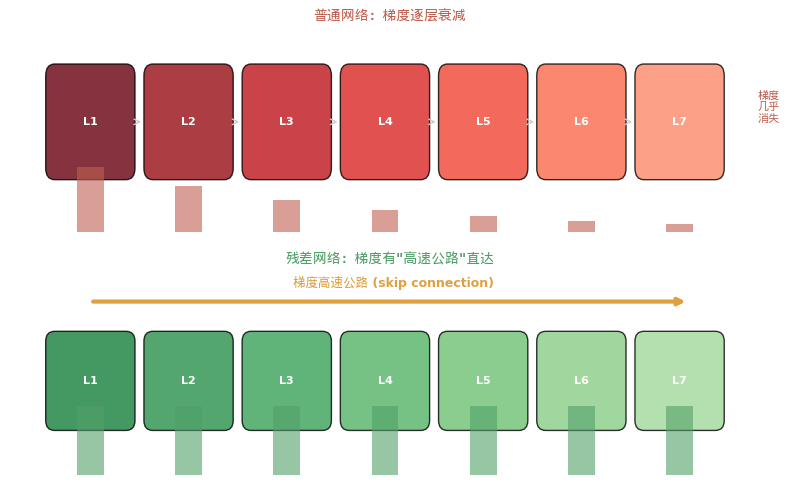
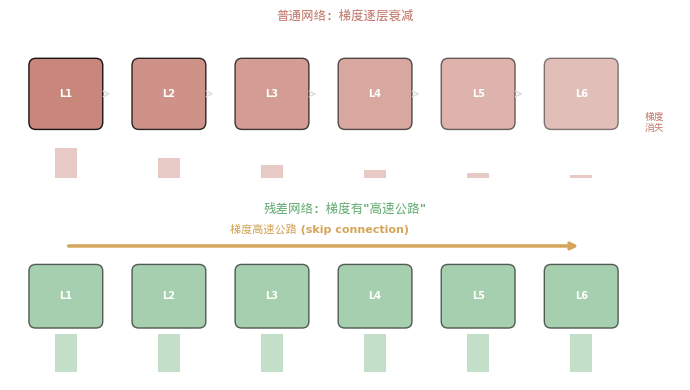
Update residual connection post: refined colors, smaller images, add residual flow animation

diff --git a/content/posts/residual-connection/gen_figures_v2.py b/content/posts/residual-connection/gen_figures_v2.py
@@ -1,0 +1,283 @@
+"""残差连接配图 v2 — 色彩优化 + 残差流动画"""
+import matplotlib
+matplotlib.use('Agg')
+import matplotlib.pyplot as plt
+import matplotlib.patches as mpatches
+import matplotlib.animation as animation
+import numpy as np
+import os
+
+plt.rcParams['font.family'] = ['DejaVu Sans', 'WenQuanYi Micro Hei', 'sans-serif']
+plt.rcParams['axes.unicode_minus'] = False
+OUT = os.path.expanduser('~/ai-blog/content/posts/residual-connection')
+DPI = 100
+SLOW = 250  # 慢速动画
+
+# 柔和色板
+C_BLUE = '#6A9EC7'
+C_RED = '#C47A6E'
+C_GREEN = '#6AAF78'
+C_PURPLE = '#9A7DBF'
+C_ORANGE = '#D4A55A'
+C_GRAY = '#A0A0A0'
+
+# ============================================================
+# 图1: 梯度高速公路（缩小，色彩柔和）
+# ============================================================
+def gen_01():
+    fig, axes = plt.subplots(2, 1, figsize=(7, 4))
+
+    # 上：普通网络
+    ax = axes[0]
+    ax.set_xlim(-0.3, 7.5); ax.set_ylim(-0.4, 1.3)
+    ax.set_title('普通网络：梯度逐层衰减', fontsize=9, fontweight='bold', color=C_RED)
+    ax.axis('off')
+    layers = 6; grad = 1.0
+    for i in range(layers):
+        x = i * 1.2
+        alpha = 0.4 + 0.5 * (1 - i/layers)
+        rect = mpatches.FancyBboxPatch((x, 0.3), 0.7, 0.6,
+            boxstyle="round,pad=0.08", facecolor=C_RED, alpha=alpha)
+        ax.add_patch(rect)
+        ax.text(x+0.35, 0.6, f'L{i+1}', ha='center', va='center', fontsize=7, color='white', fontweight='bold')
+        grad *= 0.65
+        ax.bar(x+0.35, grad*0.5, 0.25, bottom=-0.3, color=C_RED, alpha=0.4)
+        if i < layers-1:
+            ax.annotate('', xy=(x+0.9, 0.6), xytext=(x+0.8, 0.6),
+                arrowprops=dict(arrowstyle='->', color='#ddd', lw=1))
+    ax.text(7.2, 0.2, '梯度\n消失', fontsize=7, color=C_RED, ha='center')
+
+    # 下：残差网络
+    ax = axes[1]
+    ax.set_xlim(-0.3, 7.5); ax.set_ylim(-0.4, 1.5)
+    ax.set_title('残差网络：梯度有"高速公路"', fontsize=9, fontweight='bold', color=C_GREEN)
+    ax.axis('off')
+    for i in range(layers):
+        x = i * 1.2
+        rect = mpatches.FancyBboxPatch((x, 0.3), 0.7, 0.6,
+            boxstyle="round,pad=0.08", facecolor=C_GREEN, alpha=0.6)
+        ax.add_patch(rect)
+        ax.text(x+0.35, 0.6, f'L{i+1}', ha='center', va='center', fontsize=7, color='white', fontweight='bold')
+        ax.bar(x+0.35, 0.45, 0.25, bottom=-0.3, color=C_GREEN, alpha=0.4)
+    ax.annotate('', xy=(0.35, 1.2), xytext=(6.35, 1.2),
+        arrowprops=dict(arrowstyle='<-', color=C_ORANGE, lw=2.5))
+    ax.text(3.3, 1.35, '梯度高速公路 (skip connection)', ha='center', fontsize=8, color=C_ORANGE, fontweight='bold')
+
+    plt.tight_layout()
+    plt.savefig(f'{OUT}/01_gradient_highway.png', dpi=DPI, bbox_inches='tight', facecolor='white')
+    plt.close()
+    print("v2 01")
+
+# ============================================================
+# 图2: 残差流静态图（缩小，色彩柔和）
+# ============================================================
+def gen_02():
+    fig, ax = plt.subplots(figsize=(5, 7))
+    ax.set_xlim(0, 10); ax.set_ylim(0, 11)
+    ax.axis('off')
+
+    river_x = 4.5
+    ax.plot([river_x, river_x], [0.8, 10], color=C_BLUE, lw=5, alpha=0.25, solid_capstyle='round')
+    ax.text(river_x, 10.3, '残差流', ha='center', fontsize=10, color=C_BLUE, fontweight='bold')
+
+    ax.text(river_x, 9.5, 'tok + pos', ha='center', fontsize=8,
+            bbox=dict(boxstyle='round,pad=0.25', facecolor=C_ORANGE, alpha=0.8, edgecolor='white'),
+            color='white', fontweight='bold')
+
+    factories = [
+        (8.2, 'Attn 1', C_PURPLE),
+        (6.8, 'MLP 1', C_ORANGE),
+        (5.4, 'Attn 2', C_PURPLE),
+        (4.0, 'MLP 2', C_ORANGE),
+        (2.6, '... x N', C_GRAY),
+    ]
+    for y, text, color in factories:
+        ax.text(7.5, y, text, ha='center', va='center', fontsize=7,
+                bbox=dict(boxstyle='round,pad=0.25', facecolor=color, alpha=0.75, edgecolor='white'),
+                color='white', fontweight='bold')
+        ax.annotate('', xy=(5.8, y), xytext=(5.0, y),
+            arrowprops=dict(arrowstyle='<->', color=color, lw=1.2, alpha=0.6))
+
+    ax.text(river_x, 1.5, '输出', ha='center', fontsize=8,
+            bbox=dict(boxstyle='round,pad=0.25', facecolor=C_GREEN, alpha=0.8, edgecolor='white'),
+            color='white', fontweight='bold')
+
+    ax.text(1.8, 5.5, '河流不中断\n只叠加\n不覆盖', ha='center', fontsize=8, color=C_BLUE, fontstyle='italic')
+
+    plt.tight_layout()
+    plt.savefig(f'{OUT}/02_residual_stream.png', dpi=DPI, bbox_inches='tight', facecolor='white')
+    plt.close()
+    print("v2 02")
+
+# ============================================================
+# 图3: y = F(x) + x 示意图（缩小，柔和）
+# ============================================================
+def gen_03():
+    fig, ax = plt.subplots(figsize=(6, 3))
+    ax.set_xlim(0, 10); ax.set_ylim(0, 4)
+    ax.axis('off')
+
+    # 输入
+    ax.text(1, 2, 'x', ha='center', va='center', fontsize=14, fontweight='bold',
+            bbox=dict(boxstyle='round,pad=0.35', facecolor=C_BLUE, alpha=0.8, edgecolor='white'), color='white')
+
+    ax.plot([1.55, 2.3], [2, 2], color='#bbb', lw=1.5)
+    ax.plot([2.3, 2.3], [2, 3.1], color='#bbb', lw=1.5)
+    ax.plot([2.3, 2.3], [2, 0.9], color='#bbb', lw=1.5)
+
+    # skip
+    ax.annotate('', xy=(6.8, 3.1), xytext=(2.3, 3.1),
+        arrowprops=dict(arrowstyle='->', color=C_ORANGE, lw=2))
+    ax.text(4.5, 3.35, 'skip（直接传递）', ha='center', fontsize=7, color=C_ORANGE)
+
+    # F(x)
+    ax.text(4.5, 0.9, 'F(x)', ha='center', va='center', fontsize=10,
+            bbox=dict(boxstyle='round,pad=0.35', facecolor=C_RED, alpha=0.75, edgecolor='white'),
+            color='white', fontweight='bold')
+    ax.plot([2.3, 3.4], [0.9, 0.9], color='#bbb', lw=1.5)
+    ax.annotate('', xy=(6.8, 0.9), xytext=(5.6, 0.9),
+        arrowprops=dict(arrowstyle='->', color=C_RED, lw=1.5))
+
+    # +
+    ax.text(7.1, 2, '+', ha='center', va='center', fontsize=16, fontweight='bold', color=C_GREEN,
+            bbox=dict(boxstyle='circle,pad=0.15', facecolor='#E8F5E9', edgecolor=C_GREEN, lw=1.5))
+    ax.plot([6.85, 6.95], [3.1, 2.35], color=C_ORANGE, lw=1.5)
+    ax.plot([6.85, 6.95], [0.9, 1.65], color=C_RED, lw=1.5)
+
+    # 输出
+    ax.annotate('', xy=(8.7, 2), xytext=(7.5, 2),
+        arrowprops=dict(arrowstyle='->', color='#bbb', lw=1.5))
+    ax.text(9, 2, 'y', ha='center', va='center', fontsize=14, fontweight='bold',
+            bbox=dict(boxstyle='round,pad=0.35', facecolor=C_GREEN, alpha=0.8, edgecolor='white'), color='white')
+
+    ax.text(5, -0.05, 'y = F(x) + x', ha='center', fontsize=11, fontweight='bold', color='#555')
+
+    plt.tight_layout()
+    plt.savefig(f'{OUT}/03_residual_block.png', dpi=DPI, bbox_inches='tight', facecolor='white')
+    plt.close()
+    print("v2 03")
+
+# ============================================================
+# 图4: 2^n 条路径（缩小）
+# ============================================================
+def gen_04():
+    fig, ax = plt.subplots(figsize=(6, 3.5))
+    ax.set_xlim(0, 10); ax.set_ylim(0, 5)
+    ax.axis('off')
+    ax.set_title('3 个残差块 = 2³ = 8 条路径', fontsize=10, fontweight='bold')
+
+    paths = [
+        ('skip → skip → skip', C_ORANGE, 3.8, '0 层深'),
+        ('F₁ → skip → skip', C_BLUE, 2.8, '1 层深'),
+        ('F₁ → F₂ → skip', C_PURPLE, 1.8, '2 层深'),
+        ('F₁ → F₂ → F₃', C_RED, 0.8, '3 层深'),
+    ]
+    for text, color, y, depth in paths:
+        ax.text(0.3, y, text, fontsize=8, color=color, fontweight='bold', va='center')
+        bar_w = float(depth[0]) * 1.2 + 0.3
+        ax.barh(y, bar_w, 0.35, left=5.5, color=color, alpha=0.45)
+        ax.text(5.5 + bar_w + 0.15, y, depth, fontsize=7, va='center', color=color)
+
+    ax.text(5, 4.5, '大部分梯度来自较浅的路径', ha='center', fontsize=8,
+            color=C_RED, fontweight='bold',
+            bbox=dict(boxstyle='round,pad=0.25', facecolor='#FFF8E1', edgecolor=C_ORANGE))
+    plt.tight_layout()
+    plt.savefig(f'{OUT}/04_paths.png', dpi=DPI, bbox_inches='tight', facecolor='white')
+    plt.close()
+    print("v2 04")
+
+# ============================================================
+# 图5: 残差流动画（新增！慢速）
+# ============================================================
+def gen_05_animation():
+    fig, ax = plt.subplots(figsize=(6, 8))
+    ax.set_xlim(0, 10); ax.set_ylim(-0.5, 11)
+    ax.axis('off')
+    ax.set_title('数据在残差流中的旅程', fontsize=11, fontweight='bold')
+
+    # 固定元素：河流背景
+    river_x = 4.5
+    ax.plot([river_x, river_x], [0.3, 10.2], color=C_BLUE, lw=5, alpha=0.15, solid_capstyle='round')
+
+    # 节点位置和标签
+    nodes = [
+        (9.8, 'tok + pos', C_ORANGE),
+        (8.4, 'Attention 1', C_PURPLE),
+        (7.0, 'MLP 1', C_ORANGE),
+        (5.6, 'Attention 2', C_PURPLE),
+        (4.2, 'MLP 2', C_ORANGE),
+        (2.8, 'Attention N', C_PURPLE),
+        (1.4, 'MLP N', C_ORANGE),
+        (0.3, '输出', C_GREEN),
+    ]
+
+    # 画固定的工厂标签
+    for y, text, color in nodes:
+        if text in ('tok + pos', '输出'):
+            ax.text(river_x, y, text, ha='center', va='center', fontsize=8,
+                    bbox=dict(boxstyle='round,pad=0.25', facecolor=color, alpha=0.8, edgecolor='white'),
+                    color='white', fontweight='bold')
+        elif text == 'Attention N':
+            ax.text(7.5, y+0.35, '...', ha='center', fontsize=12, color='#aaa')
+            ax.text(7.5, y, text, ha='center', va='center', fontsize=7,
+                    bbox=dict(boxstyle='round,pad=0.2', facecolor=color, alpha=0.7, edgecolor='white'),
+                    color='white', fontweight='bold')
+        else:
+            ax.text(7.5, y, text, ha='center', va='center', fontsize=7,
+                    bbox=dict(boxstyle='round,pad=0.2', facecolor=color, alpha=0.7, edgecolor='white'),
+                    color='white', fontweight='bold')
+
+    # 动画元素
+    # 数据球
+    ball, = ax.plot([], [], 'o', color=C_BLUE, markersize=12, zorder=10, alpha=0.9)
+    ball_glow, = ax.plot([], [], 'o', color=C_BLUE, markersize=18, zorder=9, alpha=0.3)
+    # 累积信息的文字
+    info_text = ax.text(1.5, 5, '', fontsize=7, color=C_BLUE, fontstyle='italic',
+                        va='top', linespacing=1.4)
+    # 当前操作标签
+    action_text = ax.text(river_x, -0.3, '', ha='center', fontsize=9, fontweight='bold', color='#555')
+
+    # 动画阶段
+    stages = [
+        (9.8, '初始化残差流', '语义 + 位置'),
+        (9.1, '→ 流向 Attention 1', '语义 + 位置'),
+        (8.4, 'Attention 1 读取 & 写入', '语义 + 位置\n+ 上下文关系₁'),
+        (7.7, '→ 流向 MLP 1', '语义 + 位置\n+ 上下文关系₁'),
+        (7.0, 'MLP 1 读取 & 写入', '语义 + 位置\n+ 上下文关系₁\n+ 世界知识₁'),
+        (6.3, '→ 流向 Attention 2', '语义 + 位置\n+ 上下文关系₁\n+ 世界知识₁'),
+        (5.6, 'Attention 2 读取 & 写入', '语义 + 位置\n+ 上下文关系₁₂\n+ 世界知识₁'),
+        (4.9, '→ 流向 MLP 2', '语义 + 位置\n+ 上下文关系₁₂\n+ 世界知识₁'),
+        (4.2, 'MLP 2 读取 & 写入', '语义 + 位置\n+ 上下文关系₁₂\n+ 世界知识₁₂'),
+        (3.5, '→ ... 继续流过 N 层 ...', '语义 + 位置\n+ 上下文关系₁₂...N\n+ 世界知识₁₂...N'),
+        (2.8, 'Attention N', '(信息越来越丰富)'),
+        (2.1, '→ 流向 MLP N', ''),
+        (1.4, 'MLP N', ''),
+        (0.8, '→ 准备输出', ''),
+        (0.3, '输出下一个词！', '残差流中的全部信息\n→ 投影到词表'),
+    ]
+
+    total_frames = len(stages) * 4 + 10  # 每阶段停留 4 帧，结尾停留 10 帧
+
+    def animate(frame):
+        stage_idx = min(frame // 4, len(stages) - 1)
+        y, action, info = stages[stage_idx]
+
+        ball.set_data([river_x], [y])
+        ball_glow.set_data([river_x], [y])
+        action_text.set_text(action)
+        if info:
+            info_text.set_text(info)
+            info_text.set_position((1.0, y + 0.3))
+
+        return ball, ball_glow, action_text, info_text
+
+    anim = animation.FuncAnimation(fig, animate, frames=total_frames,
+                                   interval=SLOW, blit=False, repeat=True)
+    plt.tight_layout()
+    anim.save(f'{OUT}/05_residual_flow.gif', writer='pillow', fps=4, dpi=DPI)
+    plt.close()
+    print("v2 05 animation")
+
+if __name__ == '__main__':
+    gen_01(); gen_02(); gen_03(); gen_04(); gen_05_animation()
+    print("全部完成！")

diff --git a/content/posts/residual-connection/index.md b/content/posts/residual-connection/index.md
@@ -388,6 +388,16 @@ residual_stream = token_embedding
 
 <div style="text-align: center; font-size: 0.85em; color: #888; margin-top: -10px; margin-bottom: 20px;">▲ 残差流是一条从头到尾不间断的信息河流。Attention 和 MLP 是沿河的工厂——从河中读取信息，处理后写回</div>
 
+下面的动画展示了数据在残差流中的完整旅程——从 `tok_emb + pos_emb` 初始化开始，经过每一层的 Attention 和 MLP，信息越来越丰富，河流从不中断：
+
+<div style="text-align: center;">
+
+![数据在残差流中的旅程：信息逐层叠加，河流从不中断](05_residual_flow.gif)
+
+</div>
+
+<div style="text-align: center; font-size: 0.85em; color: #888; margin-top: -10px; margin-bottom: 20px;">▲ 蓝色球 = 残差流中的数据。每经过一个"工厂"（Attention/MLP），新的信息被叠加进来，但原有信息完整保留</div>
+
 ### 回到 tok_emb + pos_emb
 
 现在你可以重新理解 Transformer 的第一步了：
